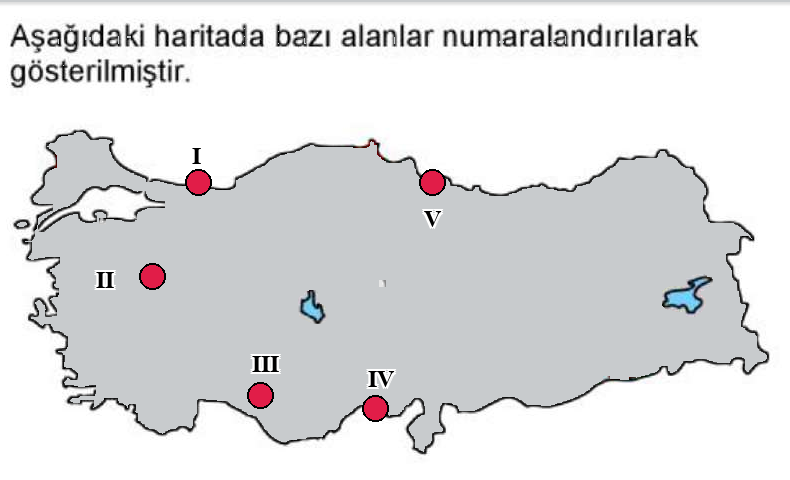
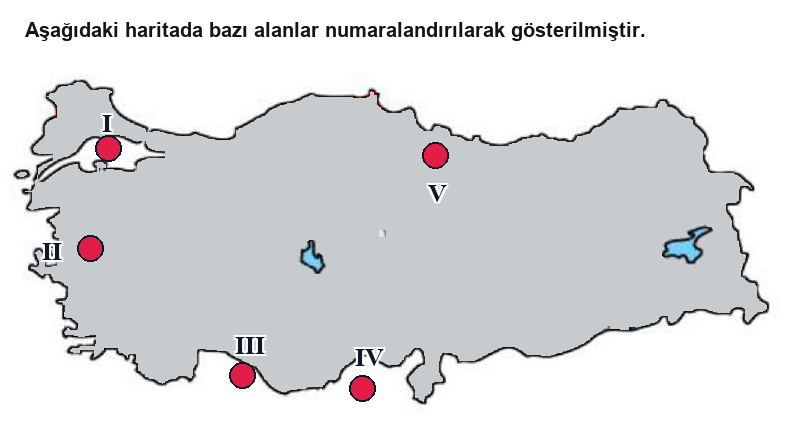
fix: 2022 EKYS haritasi ve soru metni (Kirklareli, Canakkale, Teke, Taseli, Sinop) tam olarak eslestirildi

Changed region(s): [[0.0, 0.0, 1.0, 0.9674], [0.3646, 0.5442, 0.4253, 0.6953]]

diff --git a/data/questions-db.js b/data/questions-db.js
@@ -15406,7 +15406,7 @@ window.EKYS_EXTRACTED_QUESTIONS = [
     "topicName": "2022 EKYS - Coğrafya",
     "category": "Genel Kültür - Coğrafya",
     "questionNumber": 7,
-    "questionText": "Aşağıdaki haritada bazı alanlar numaralandırılarak gösterilmiştir.\n\nBu alanlardan hangisinde arazinin dağlık ve engebeli olması, ulaşım ve sanayinin gelişmesini engelleyerek nüfusun seyrek kalmasında temel etken olmuştur?",
+    "questionText": "Aşağıdaki haritada bazı alanlar numaralandırılarak gösterilmiştir.\n\nBu yerlerin hangisinde rüzgâr enerjisi potansiyeli daha yüksektir?",
     "hasImage": true,
     "image": "assets/questions/ekys2022_q7_map.png",
     "options": [
@@ -15431,8 +15431,8 @@ window.EKYS_EXTRACTED_QUESTIONS = [
         "text": "V"
       }
     ],
-    "correctAnswer": "E",
-    "explanation": "Doğru Cevap: <strong>E (V - Hakkari Yöresi)</strong><br>V numaralı Hakkari yöresi, Türkiye'nin en dağlık ve engebeli alanlarından biri olup olumsuz topoğrafya ve iklim şartları nedeniyle nüfus oldukça seyrektir."
+    "correctAnswer": "B",
+    "explanation": "Doğru Cevap: <strong>B</strong> (II - Çanakkale / Biga Yarımadası)<br>Türkiye'de rüzgâr enerjisi potansiyelinin en yüksek olduğu alanların başında Marmara ve Ege kıyıları, özellikle <strong>Çanakkale (II - Biga Yarımadası)</strong>, Balıkesir ve İzmir çevresi gelmektedir. Çanakkale Boğazı ve çevresi sürekli ve güçlü hava akımlarına açık olması nedeniyle rüzgâr enerjisi santralleri (RES) bakımından ülkemizin en verimli alanlarındandır.<br><br><strong>Haritada İşaretli Alanlar:</strong><br>• <strong>I:</strong> Kırklareli / Trakya<br>• <strong>II:</strong> Çanakkale / Biga Yarımadası (En Yüksek Rüzgâr Potansiyeli - Doğru Cevap)<br>• <strong>III:</strong> Teke Yarımadası / Antalya<br>• <strong>IV:</strong> Taşeli Platosu / Mersin<br>• <strong>V:</strong> Sinop / İnceburun"
   },
   {
     "id": "ekys_2022_q8",

diff --git a/sw.js b/sw.js
@@ -1,5 +1,5 @@
 // EKYS 2027 Service Worker (Network First Strategy - Canlı Otomatik Güncelleme)
-const CACHE_NAME = 'ekys-2027-v17.0';
+const CACHE_NAME = 'ekys-2027-v18.0';
 
 self.addEventListener('install', (e) => {
   self.skipWaiting();
